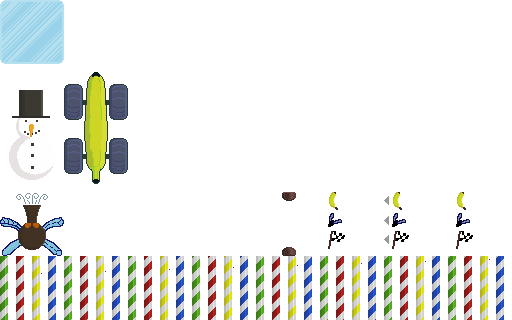
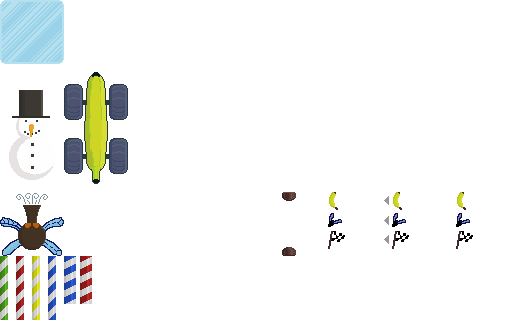
Updated progress bar (thickness and length).

Changed region(s): [[0.125, 0.7812, 1.0, 1.0]]

diff --git a/gppcc10/core/src/de/pixlpommes/gppcc10/iceway/ProgressBar.java b/gppcc10/core/src/de/pixlpommes/gppcc10/iceway/ProgressBar.java
@@ -13,8 +13,19 @@ import com.badlogic.gdx.graphics.g2d.Batch;
  */
 public class ProgressBar {
 	
+	private final int END_TILE_WIDTH = 14;
+	private final int END_TILE_HEIGHT = 9;
+	private final int BAR_TILE_WIDTH = 12;
+	private final int BAR_TILE_HEIGHT = 42;
+	
 	/** TODO: describe '_y' */
 	private float _x, _y;
+	
+	/** TODO: describe '_flash' */
+	private boolean _flash;
+	
+	/** TODO: describe '_flashTime' */
+	private float _flashTime, _flashMaxTime;
 	
 	
 	/**
@@ -24,10 +35,22 @@ public class ProgressBar {
 	public ProgressBar(float posX, float posY) {
 		_x = posX;
 		_y = posY;
-		// blue texture @(48, 256)x(8,64)
-		// red texture @(16, 256)x(8,64)
-		// bars top end tile @(282, 247)x(14,9)
-		// bars lower end tile @(282, 192)x(14,9)
+		
+		_flash = false;
+		_flashTime = 0;
+		_flashMaxTime = 2;
+	}
+	
+	/**
+	 * TODO: describe function
+	 * @param delta
+	 */
+	public void update(float delta) {
+		if(_flash && _flashTime > 0) {
+			_flashTime -= delta;
+		} else if(_flash) {
+			_flash = false;
+		}
 	}
 	
 	/**
@@ -38,32 +61,46 @@ public class ProgressBar {
 		// current y
 		float curY = _y;
 		
+		// select bar tile color by variable 'flash'
+		int tileX = (_flash) ? 80 : 64;
+		
 		// lower end tile
 		batch.draw(Iceway.TILESET,
 			_x, curY,
 			282, 192, // tile position in tile set
-			14, 9); // tile size
+			END_TILE_WIDTH, END_TILE_HEIGHT); // tile size
 		// add tile size to y
-		curY += 9;
+		curY += END_TILE_HEIGHT;
 		
+		// all bar tiles
 		for(int i=0; i<6; i++) {
 			batch.draw(Iceway.TILESET,
-				_x+3, // add 3 to position bar in center
+				_x+1, // add 1 to position bar in center
 				curY,
-				48, 256, // tile position in tile set
-				8, 64); // tile size
-			curY += 64;
+				tileX, 256, // tile position in tile set
+				BAR_TILE_WIDTH, BAR_TILE_HEIGHT); // tile size
+			curY += BAR_TILE_HEIGHT;
 		}
 		
 		// top end tile
 		batch.draw(Iceway.TILESET,
 				_x, curY,
 				282, 247, // tile position in tile set
-				14, 9); // tile size
+				END_TILE_WIDTH, END_TILE_HEIGHT); // tile size
 		
-		// blue texture @(48, 256)x(8,64)
-		// red texture @(16, 256)x(8,64)
+		// blue texture @(64, 256)x(12,42)
+		// red texture @(80, 256)x(12,42)
 		// bars top end tile @(282, 247)x(14,9)
 		// bars lower end tile @(282, 192)x(14,9)
+	}
+	
+	/**
+	 * TODO: describe function
+	 */
+	public void flash() {
+		if(_flash) return;
+		
+		_flash = true;
+		_flashTime = _flashMaxTime;
 	}
 }

diff --git a/gppcc10/core/src/de/pixlpommes/gppcc10/iceway/Iceway.java b/gppcc10/core/src/de/pixlpommes/gppcc10/iceway/Iceway.java
@@ -131,6 +131,8 @@ public class Iceway {
 		}
 		
 		_items.update(deltaSpeed);
+		
+		_progress.update(delta);
 	}
 	
 	/**
